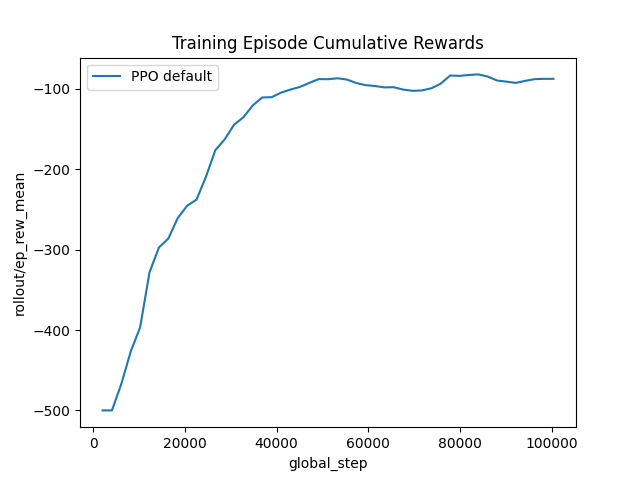
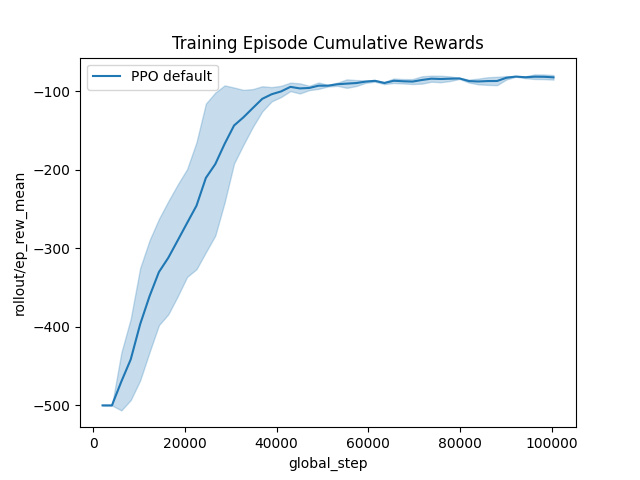
update tuto deepRL

diff --git a/docs/basics/DeepRLTutorial/TutorialDeepRL.md b/docs/basics/DeepRLTutorial/TutorialDeepRL.md
@@ -76,14 +76,14 @@ The ExperimentManager class is a compact way of experimenting with a deepRL agen
 default_xp = ExperimentManager(
     StableBaselinesAgent,  # The Agent class.
     (gym_make, dict(id="Acrobot-v1")),  # The Environment to solve.
-    fit_budget=1e6,  # The number of interactions
+    fit_budget=1e5,  # The number of interactions
     # between the agent and the
     # environment during training.
     init_kwargs=dict(algo_cls=PPO),  # Init value for StableBaselinesAgent
     eval_kwargs=dict(eval_horizon=500),  # The number of interactions
     # between the agent and the
     # environment during evaluations.
-    n_fit=1,  # The number of agents to train.
+    n_fit=3,  # The number of agents to train.
     # Usually, it is good to do more
     # than 1 because the training is
     # stochastic.
@@ -104,39 +104,18 @@ _ = plot_writer_data(
 ```
 
 ```none
-[INFO] 17:13: Running ExperimentManager fit() for PPO default with n_fit = 1 and max_workers = None.
-```
-
-</br>
-
-```none
 Training ...
-```
-
-</br>
-
-```none
-[INFO] 17:13: Running ExperimentManager fit() for PPO default with n_fit = 1 and max_workers = None.
-[INFO] 17:13: [PPO default[worker: 0]] | max_global_step = 6144 | time/iterations = 2 | rollout/ep_rew_mean = -500.0 | rollout/ep_len_mean = 500.0 | time/fps = 1692 | time/time_elapsed = 2 | time/total_timesteps = 4096 | train/learning_rate = 0.0003 | train/entropy_loss = -1.0929798234254122 | train/policy_gradient_loss = -0.006189992171130143 | train/value_loss = 141.715856385231 | train/approx_kl = 0.007915161550045013 | train/clip_fraction = 0.064501953125 | train/loss = 18.01680564880371 | train/explained_variance = -0.006626486778259277 | train/n_updates = 10 | train/clip_range = 0.2 |
-[INFO] 17:13: [PPO default[worker: 0]] | max_global_step = 10240 | time/iterations = 4 | rollout/ep_rew_mean = -426.7368421052632 | rollout/ep_len_mean = 427.1578947368421 | time/fps = 1500 | time/time_elapsed = 5 | time/total_timesteps = 8192 | train/learning_rate = 0.0003 | train/entropy_loss = -1.0738775245845318 | train/policy_gradient_loss = -0.007528258884849493 | train/value_loss = 97.8167538881302 | train/approx_kl = 0.007092837244272232 | train/clip_fraction = 0.06171875 | train/loss = 22.329425811767578 | train/explained_variance = 0.16747123003005981 | train/n_updates = 30 | train/clip_range = 0.2 |
-[INFO] 17:13: [PPO default[worker: 0]] | max_global_step = 14336 | time/iterations = 6 | rollout/ep_rew_mean = -328.2432432432432 | rollout/ep_len_mean = 328.9189189189189 | time/fps = 1422 | time/time_elapsed = 8 | time/total_timesteps = 12288 | train/learning_rate = 0.0003 | train/entropy_loss = -0.9952785328030587 | train/policy_gradient_loss = -0.004915896706006606 | train/value_loss = 76.84451106190681 | train/approx_kl = 0.009993761777877808 | train/clip_fraction = 0.063134765625 | train/loss = 16.79842185974121 | train/explained_variance = 0.18965238332748413 | train/n_updates = 50 | train/clip_range = 0.2 |
-[INFO] 17:14: [PPO default[worker: 0]] | max_global_step = 20480 | time/iterations = 9 | rollout/ep_rew_mean = -260.77142857142854 | rollout/ep_len_mean = 261.5857142857143 | time/fps = 1424 | time/time_elapsed = 12 | time/total_timesteps = 18432 | train/learning_rate = 0.0003 | train/entropy_loss = -0.9102774120867252 | train/policy_gradient_loss = -0.004213768222689396 | train/value_loss = 62.170489662885664 | train/approx_kl = 0.006206408608704805 | train/clip_fraction = 0.018017578125 | train/loss = 12.47692584991455 | train/explained_variance = 0.5796919465065002 | train/n_updates = 80 | train/clip_range = 0.2 |
-[INFO] 17:14: [PPO default[worker: 0]] | max_global_step = 26624 | time/iterations = 12 | rollout/ep_rew_mean = -209.51 | rollout/ep_len_mean = 210.45 | time/fps = 1466 | time/time_elapsed = 16 | time/total_timesteps = 24576 | train/learning_rate = 0.0003 | train/entropy_loss = -0.7815314799547195 | train/policy_gradient_loss = -0.007312664366327226 | train/value_loss = 43.975503134727475 | train/approx_kl = 0.008047394454479218 | train/clip_fraction = 0.068896484375 | train/loss = 15.753148078918457 | train/explained_variance = 0.8005904108285904 | train/n_updates = 110 | train/clip_range = 0.2 |
-[INFO] 17:14: [PPO default[worker: 0]] | max_global_step = 32768 | time/iterations = 15 | rollout/ep_rew_mean = -144.47 | rollout/ep_len_mean = 145.47 | time/fps = 1495 | time/time_elapsed = 20 | time/total_timesteps = 30720 | train/learning_rate = 0.0003 | train/entropy_loss = -0.6775180252268911 | train/policy_gradient_loss = -0.006114470241300296 | train/value_loss = 34.544698759913445 | train/approx_kl = 0.008602862246334553 | train/clip_fraction = 0.081396484375 | train/loss = 18.569143295288086 | train/explained_variance = 0.8845842033624649 | train/n_updates = 140 | train/clip_range = 0.2 |
-[INFO] 17:14: [PPO default[worker: 0]] | max_global_step = 38912 | time/iterations = 18 | rollout/ep_rew_mean = -110.58 | rollout/ep_len_mean = 111.58 | time/fps = 1515 | time/time_elapsed = 24 | time/total_timesteps = 36864 | train/learning_rate = 0.0003 | train/entropy_loss = -0.49321664227172735 | train/policy_gradient_loss = -0.00420049975218717 | train/value_loss = 31.819509637355804 | train/approx_kl = 0.004260750487446785 | train/clip_fraction = 0.04560546875 | train/loss = 12.861420631408691 | train/explained_variance = 0.8872770071029663 | train/n_updates = 170 | train/clip_range = 0.2 |
-[INFO] 17:14: [PPO default[worker: 0]] | max_global_step = 45056 | time/iterations = 21 | rollout/ep_rew_mean = -100.74 | rollout/ep_len_mean = 101.74 | time/fps = 1532 | time/time_elapsed = 28 | time/total_timesteps = 43008 | train/learning_rate = 0.0003 | train/entropy_loss = -0.4429807928390801 | train/policy_gradient_loss = -0.0051260963329696095 | train/value_loss = 22.604873842000963 | train/approx_kl = 0.004053293261677027 | train/clip_fraction = 0.046728515625 | train/loss = 9.488809585571289 | train/explained_variance = 0.8918172493577003 | train/n_updates = 200 | train/clip_range = 0.2 |
-[INFO] 17:14: [PPO default[worker: 0]] | max_global_step = 51200 | time/iterations = 24 | rollout/ep_rew_mean = -87.7 | rollout/ep_len_mean = 88.7 | time/fps = 1545 | time/time_elapsed = 31 | time/total_timesteps = 49152 | train/learning_rate = 0.0003 | train/entropy_loss = -0.3213156964164227 | train/policy_gradient_loss = -0.002665774476190563 | train/value_loss = 20.599636045098304 | train/approx_kl = 0.0024083973839879036 | train/clip_fraction = 0.017236328125 | train/loss = 12.99824333190918 | train/explained_variance = 0.8812666162848473 | train/n_updates = 230 | train/clip_range = 0.2 |
-[INFO] 17:14: [PPO default[worker: 0]] | max_global_step = 57344 | time/iterations = 27 | rollout/ep_rew_mean = -88.24 | rollout/ep_len_mean = 89.24 | time/fps = 1555 | time/time_elapsed = 35 | time/total_timesteps = 55296 | train/learning_rate = 0.0003 | train/entropy_loss = -0.31546892756596207 | train/policy_gradient_loss = -0.009636750411300455 | train/value_loss = 17.506983835995197 | train/approx_kl = 0.008459953591227531 | train/clip_fraction = 0.054296875 | train/loss = 7.022050380706787 | train/explained_variance = 0.8970916345715523 | train/n_updates = 260 | train/clip_range = 0.2 |
-[INFO] 17:14: [PPO default[worker: 0]] | max_global_step = 63488 | time/iterations = 30 | rollout/ep_rew_mean = -96.3 | rollout/ep_len_mean = 97.29 | time/fps = 1563 | time/time_elapsed = 39 | time/total_timesteps = 61440 | train/learning_rate = 0.0003 | train/entropy_loss = -0.28947532204911114 | train/policy_gradient_loss = -0.001286450280167628 | train/value_loss = 35.65989404916763 | train/approx_kl = 0.0011013790499418974 | train/clip_fraction = 0.009375 | train/loss = 18.42564582824707 | train/explained_variance = 0.8290886282920837 | train/n_updates = 290 | train/clip_range = 0.2 |
-[INFO] 17:14: [PPO default[worker: 0]] | max_global_step = 69632 | time/iterations = 33 | rollout/ep_rew_mean = -100.76 | rollout/ep_len_mean = 101.74 | time/fps = 1571 | time/time_elapsed = 43 | time/total_timesteps = 67584 | train/learning_rate = 0.0003 | train/entropy_loss = -0.22212261543609202 | train/policy_gradient_loss = -0.0013434989712550304 | train/value_loss = 19.162969033420087 | train/approx_kl = 0.0013764428440481424 | train/clip_fraction = 0.0099609375 | train/loss = 7.710111618041992 | train/explained_variance = 0.8366725593805313 | train/n_updates = 320 | train/clip_range = 0.2 |
-[INFO] 17:14: [PPO default[worker: 0]] | max_global_step = 75776 | time/iterations = 36 | rollout/ep_rew_mean = -99.14 | rollout/ep_len_mean = 100.11 | time/fps = 1574 | time/time_elapsed = 46 | time/total_timesteps = 73728 | train/learning_rate = 0.0003 | train/entropy_loss = -0.22284777173772455 | train/policy_gradient_loss = -0.003595446604595054 | train/value_loss = 47.21005566716194 | train/approx_kl = 0.0020544053986668587 | train/clip_fraction = 0.0236328125 | train/loss = 19.401063919067383 | train/explained_variance = 0.7258298695087433 | train/n_updates = 350 | train/clip_range = 0.2 |
-[INFO] 17:14: [PPO default[worker: 0]] | max_global_step = 81920 | time/iterations = 39 | rollout/ep_rew_mean = -83.72 | rollout/ep_len_mean = 84.72 | time/fps = 1579 | time/time_elapsed = 50 | time/total_timesteps = 79872 | train/learning_rate = 0.0003 | train/entropy_loss = -0.1912181852152571 | train/policy_gradient_loss = -0.0029860971349989994 | train/value_loss = 20.7523592710495 | train/approx_kl = 0.002668976318091154 | train/clip_fraction = 0.018408203125 | train/loss = 10.850214004516602 | train/explained_variance = 0.9057487025856972 | train/n_updates = 380 | train/clip_range = 0.2 |
-[INFO] 17:14: [PPO default[worker: 0]] | max_global_step = 88064 | time/iterations = 42 | rollout/ep_rew_mean = -84.51 | rollout/ep_len_mean = 85.51 | time/fps = 1584 | time/time_elapsed = 54 | time/total_timesteps = 86016 | train/learning_rate = 0.0003 | train/entropy_loss = -0.16024661988485606 | train/policy_gradient_loss = -0.0008719900164578575 | train/value_loss = 17.229137426614763 | train/approx_kl = 0.0011531587224453688 | train/clip_fraction = 0.006982421875 | train/loss = 9.205939292907715 | train/explained_variance = 0.9104878678917885 | train/n_updates = 410 | train/clip_range = 0.2 |
-[INFO] 17:14: [PPO default[worker: 0]] | max_global_step = 94208 | time/iterations = 45 | rollout/ep_rew_mean = -92.42 | rollout/ep_len_mean = 93.42 | time/fps = 1589 | time/time_elapsed = 57 | time/total_timesteps = 92160 | train/learning_rate = 0.0003 | train/entropy_loss = -0.12848295361036435 | train/policy_gradient_loss = -0.002640917531971354 | train/value_loss = 33.56368041336536 | train/approx_kl = 0.001574347261339426 | train/clip_fraction = 0.01591796875 | train/loss = 22.291500091552734 | train/explained_variance = 0.8023407310247421 | train/n_updates = 440 | train/clip_range = 0.2 |
-[INFO] 17:14: [PPO default[worker: 0]] | max_global_step = 100352 | time/iterations = 48 | rollout/ep_rew_mean = -87.38 | rollout/ep_len_mean = 88.37 | time/fps = 1593 | time/time_elapsed = 61 | time/total_timesteps = 98304 | train/learning_rate = 0.0003 | train/entropy_loss = -0.23304079584777354 | train/policy_gradient_loss = -0.0029938832129118966 | train/value_loss = 15.94501298815012 | train/approx_kl = 0.0073814853094518185 | train/clip_fraction = 0.043359375 | train/loss = 5.659388542175293 | train/explained_variance = 0.7538405954837799 | train/n_updates = 470 | train/clip_range = 0.2 |
-[INFO] 17:14: ... trained!
-[INFO] 17:14: Saved ExperimentManager(PPO default) using pickle.
-[INFO] 17:14: The ExperimentManager was saved in : 'rlberry_data/temp/manager_data/PPO default_2024-04-16_17-13-48_3ce30c7c/manager_obj.pickle'
+[INFO] 15:57: Running ExperimentManager fit() for PPO default with n_fit = 3 and max_workers = None.
+[INFO] 15:57:                                   agent_name  worker  time/iterations  max_global_step
+                                               PPO default    0           1               2048
+[INFO] 15:57: [PPO default[worker: 2]] | max_global_step = 4096 | time/iterations = 1 | rollout/ep_rew_mean = -500.0 | rollout/ep_len_mean = 500.0 | time/fps = 727 | time/time_elapsed = 2 | time/total_timesteps = 2048 | train/learning_rate = 0.0003 |
+[INFO] 15:57: [PPO default[worker: 0]] | max_global_step = 4096 | time/iterations = 1 | rollout/ep_rew_mean = -500.0 | rollout/ep_len_mean = 500.0 | time/fps = 705 | time/time_elapsed = 2 | time/total_timesteps = 2048 | train/learning_rate = 0.0003 |
+[INFO] 15:57: [PPO default[worker: 1]] | max_global_step = 4096 | time/iterations = 1 | rollout/ep_rew_mean = -500.0 | rollout/ep_len_mean = 500.0 | time/fps = 719 | time/time_elapsed = 2 | time/total_timesteps = 2048 | train/learning_rate = 0.0003 |
+...
+...
+...
+[INFO] 16:01: [PPO default[worker: 1]] | max_global_step = 100352 | time/iterations = 48 | rollout/ep_rew_mean = -79.26 | rollout/ep_len_mean = 80.26 | time/fps = 398 | time/time_elapsed = 246 | time/total_timesteps = 98304 | train/learning_rate = 0.0003 | train/entropy_loss = -0.1558212914969772 | train/policy_gradient_loss = -0.001575780064376886 | train/value_loss = 9.463472159206868 | train/approx_kl = 0.0019107917323708534 | train/clip_fraction = 0.018701171875 | train/loss = 10.015292167663574 | train/explained_variance = 0.9502505771815777 | train/n_updates = 470 | train/clip_range = 0.2 |
+[INFO] 16:01: [PPO default[worker: 2]] | max_global_step = 100352 | time/iterations = 48 | rollout/ep_rew_mean = -81.55 | rollout/ep_len_mean = 82.55 | time/fps = 398 | time/time_elapsed = 246 | time/total_timesteps = 98304 | train/learning_rate = 0.0003 | train/entropy_loss = -0.1251153098186478 | train/policy_gradient_loss = -0.003398912865668535 | train/value_loss = 8.9318665035069 | train/approx_kl = 0.0023679514415562153 | train/clip_fraction = 0.022314453125 | train/loss = 4.039802551269531 | train/explained_variance = 0.9598834589123726 | train/n_updates = 470 | train/clip_range = 0.2 |
 ```
 
 </br>
@@ -156,7 +135,7 @@ _ = evaluate_agents(
 
 ```none
 Evaluating ...
-[INFO] 17:15: Evaluating PPO default...
+[INFO] 16:03: Evaluating PPO default...
 [INFO] Evaluation:..................................................  Evaluation finished
 ```
 
@@ -184,17 +163,14 @@ tuned_xp = ExperimentManager(
         gae_lambda=0.94,  # Factor for trade-off of bias vs variance for Generalized Advantage Estimator
         n_epochs=4,  # Number of epoch when optimizing the surrogate loss
         n_steps=256,  # The number of steps to run for the environment per update
-        batch_size=256,  # Number of interactions used to
-        # estimate the policy gradient
-        # for each policy update.
     ),
-    fit_budget=1e6,  # The number of interactions
+    fit_budget=1e5,  # The number of interactions
     # between the agent and the
     # environment during training.
     eval_kwargs=dict(eval_horizon=500),  # The number of interactions
     # between the agent and the
     # environment during evaluations.
-    n_fit=1,  # The number of agents to train.
+    n_fit=3,  # The number of agents to train.
     # Usually, it is good to do more
     # than 1 because the training is
     # stochastic.
@@ -216,7 +192,7 @@ _ = plot_writer_data(
 ```
 
 ```none
-[INFO] 17:15: Running ExperimentManager fit() for PPO tuned with n_fit = 1 and max_workers = None.
+[INFO] 16:06: Running ExperimentManager fit() for PPO tuned with n_fit = 3 and max_workers = None.
 ```
 
 </br>
@@ -228,25 +204,16 @@ Training ...
 </br>
 
 ```none
-[INFO] 17:15: [PPO tuned[worker: 0]] | max_global_step = 6400 | time/iterations = 24 | time/fps = 2105 | time/time_elapsed = 2 | time/total_timesteps = 6144 | train/learning_rate = 0.0003 | train/entropy_loss = -1.0572556108236313 | train/policy_gradient_loss = -0.00047643095604144037 | train/value_loss = 128.2477970123291 | train/approx_kl = 5.645095370709896e-05 | train/clip_fraction = 0.0 | train/loss = 55.283321380615234 | train/explained_variance = 0.20806163549423218 | train/n_updates = 92 | train/clip_range = 0.2 | rollout/ep_rew_mean = -333.1111111111111 | rollout/ep_len_mean = 333.8333333333333 |
-[INFO] 17:15: [PPO tuned[worker: 0]] | max_global_step = 12544 | time/iterations = 48 | time/fps = 2068 | time/time_elapsed = 5 | time/total_timesteps = 12288 | train/learning_rate = 0.0003 | train/entropy_loss = -0.7988822720944881 | train/policy_gradient_loss = -0.001968120865058154 | train/value_loss = 89.75015926361084 | train/approx_kl = 0.0006263391114771366 | train/clip_fraction = 0.0 | train/loss = 43.21318054199219 | train/explained_variance = 0.33033323287963867 | train/n_updates = 188 | train/clip_range = 0.2 | rollout/ep_rew_mean = -218.23214285714286 | rollout/ep_len_mean = 219.14285714285714 |
-[INFO] 17:15: [PPO tuned[worker: 0]] | max_global_step = 18432 | time/iterations = 71 | time/fps = 2007 | time/time_elapsed = 9 | time/total_timesteps = 18176 | train/learning_rate = 0.0003 | train/entropy_loss = -0.6998001970350742 | train/policy_gradient_loss = -0.0007780164014548063 | train/value_loss = 91.61138582229614 | train/approx_kl = 0.0002921083942055702 | train/clip_fraction = 0.0 | train/loss = 49.43030548095703 | train/explained_variance = 0.199457049369812 | train/n_updates = 280 | train/clip_range = 0.2 | rollout/ep_rew_mean = -175.49 | rollout/ep_len_mean = 176.45 |
-[INFO] 17:15: [PPO tuned[worker: 0]] | max_global_step = 24320 | time/iterations = 94 | time/fps = 1988 | time/time_elapsed = 12 | time/total_timesteps = 24064 | train/learning_rate = 0.0003 | train/entropy_loss = -0.6855811513960361 | train/policy_gradient_loss = -0.00044799927854910493 | train/value_loss = 84.82663869857788 | train/approx_kl = 0.0006827195174992085 | train/clip_fraction = 0.0 | train/loss = 40.594425201416016 | train/explained_variance = 0.40675830841064453 | train/n_updates = 372 | train/clip_range = 0.2 | rollout/ep_rew_mean = -120.54 | rollout/ep_len_mean = 121.54 |
-[INFO] 17:15: [PPO tuned[worker: 0]] | max_global_step = 30720 | time/iterations = 119 | time/fps = 2000 | time/time_elapsed = 15 | time/total_timesteps = 30464 | train/learning_rate = 0.0003 | train/entropy_loss = -0.4461955167353153 | train/policy_gradient_loss = -0.0019316497491672635 | train/value_loss = 39.96290922164917 | train/approx_kl = 0.00022931606508791447 | train/clip_fraction = 0.0 | train/loss = 18.5803279876709 | train/explained_variance = 0.7989254891872406 | train/n_updates = 472 | train/clip_range = 0.2 | rollout/ep_rew_mean = -100.35 | rollout/ep_len_mean = 101.35 |
-[INFO] 17:15: [PPO tuned[worker: 0]] | max_global_step = 36864 | time/iterations = 143 | time/fps = 1995 | time/time_elapsed = 18 | time/total_timesteps = 36608 | train/learning_rate = 0.0003 | train/entropy_loss = -0.3954697884619236 | train/policy_gradient_loss = -0.0026701100287027657 | train/value_loss = 31.354408621788025 | train/approx_kl = 0.0005203159525990486 | train/clip_fraction = 0.001953125 | train/loss = 13.910658836364746 | train/explained_variance = 0.8476790189743042 | train/n_updates = 568 | train/clip_range = 0.2 | rollout/ep_rew_mean = -94.41 | rollout/ep_len_mean = 95.41 |
-[INFO] 17:15: [PPO tuned[worker: 0]] | max_global_step = 43264 | time/iterations = 168 | time/fps = 2005 | time/time_elapsed = 21 | time/total_timesteps = 43008 | train/learning_rate = 0.0003 | train/entropy_loss = -0.45925334468483925 | train/policy_gradient_loss = -0.00039937475230544806 | train/value_loss = 33.857659459114075 | train/approx_kl = 0.0001619535032659769 | train/clip_fraction = 0.0 | train/loss = 16.692773818969727 | train/explained_variance = 0.8541684299707413 | train/n_updates = 668 | train/clip_range = 0.2 | rollout/ep_rew_mean = -97.28 | rollout/ep_len_mean = 98.28 |
-[INFO] 17:16: [PPO tuned[worker: 0]] | max_global_step = 49408 | time/iterations = 192 | time/fps = 2003 | time/time_elapsed = 24 | time/total_timesteps = 49152 | train/learning_rate = 0.0003 | train/entropy_loss = -0.34735729917883873 | train/policy_gradient_loss = -0.0035068761208094656 | train/value_loss = 24.374780774116516 | train/approx_kl = 0.0010997226927429438 | train/clip_fraction = 0.00390625 | train/loss = 7.9426116943359375 | train/explained_variance = 0.894627682864666 | train/n_updates = 764 | train/clip_range = 0.2 | rollout/ep_rew_mean = -86.75 | rollout/ep_len_mean = 87.75 |
-[INFO] 17:16: [PPO tuned[worker: 0]] | max_global_step = 55552 | time/iterations = 216 | time/fps = 2004 | time/time_elapsed = 27 | time/total_timesteps = 55296 | train/learning_rate = 0.0003 | train/entropy_loss = -0.25039983075112104 | train/policy_gradient_loss = -0.002326533489394933 | train/value_loss = 16.638584196567535 | train/approx_kl = 0.0007837177254259586 | train/clip_fraction = 0.0029296875 | train/loss = 8.219216346740723 | train/explained_variance = 0.9247641786932945 | train/n_updates = 860 | train/clip_range = 0.2 | rollout/ep_rew_mean = -83.17 | rollout/ep_len_mean = 84.17 |
-[INFO] 17:16: [PPO tuned[worker: 0]] | max_global_step = 61696 | time/iterations = 240 | time/fps = 2004 | time/time_elapsed = 30 | time/total_timesteps = 61440 | train/learning_rate = 0.0003 | train/entropy_loss = -0.20490748342126608 | train/policy_gradient_loss = -0.002675430674571544 | train/value_loss = 11.756703406572342 | train/approx_kl = 0.0009058164432644844 | train/clip_fraction = 0.00390625 | train/loss = 4.831850528717041 | train/explained_variance = 0.9516513273119926 | train/n_updates = 956 | train/clip_range = 0.2 | rollout/ep_rew_mean = -85.84 | rollout/ep_len_mean = 86.84 |
-[INFO] 17:16: [PPO tuned[worker: 0]] | max_global_step = 67840 | time/iterations = 264 | time/fps = 2001 | time/time_elapsed = 33 | time/total_timesteps = 67584 | train/learning_rate = 0.0003 | train/entropy_loss = -0.1371078807860613 | train/policy_gradient_loss = -0.0002851566532626748 | train/value_loss = 39.02770984172821 | train/approx_kl = 0.0003623703960329294 | train/clip_fraction = 0.001953125 | train/loss = 11.338791847229004 | train/explained_variance = 0.8494161516427994 | train/n_updates = 1052 | train/clip_range = 0.2 | rollout/ep_rew_mean = -85.28 | rollout/ep_len_mean = 86.28 |
-[INFO] 17:16: [PPO tuned[worker: 0]] | max_global_step = 73984 | time/iterations = 288 | time/fps = 1999 | time/time_elapsed = 36 | time/total_timesteps = 73728 | train/learning_rate = 0.0003 | train/entropy_loss = -0.09845160157419741 | train/policy_gradient_loss = 1.6727717593312263e-06 | train/value_loss = 62.19053077697754 | train/approx_kl = 1.8619466572999954e-06 | train/clip_fraction = 0.0 | train/loss = 22.528833389282227 | train/explained_variance = 0.8270737081766129 | train/n_updates = 1148 | train/clip_range = 0.2 | rollout/ep_rew_mean = -88.41 | rollout/ep_len_mean = 89.41 |
-[INFO] 17:16: [PPO tuned[worker: 0]] | max_global_step = 80384 | time/iterations = 313 | time/fps = 2006 | time/time_elapsed = 39 | time/total_timesteps = 80128 | train/learning_rate = 0.0003 | train/entropy_loss = -0.18064112542197108 | train/policy_gradient_loss = -0.00035066844429820776 | train/value_loss = 11.814534723758698 | train/approx_kl = 0.00025136792100965977 | train/clip_fraction = 0.0009765625 | train/loss = 4.615758419036865 | train/explained_variance = 0.947364155203104 | train/n_updates = 1248 | train/clip_range = 0.2 | rollout/ep_rew_mean = -85.55 | rollout/ep_len_mean = 86.55 |
-[INFO] 17:16: [PPO tuned[worker: 0]] | max_global_step = 86784 | time/iterations = 338 | time/fps = 2012 | time/time_elapsed = 42 | time/total_timesteps = 86528 | train/learning_rate = 0.0003 | train/entropy_loss = -0.16239579999819398 | train/policy_gradient_loss = -0.0017573575023561716 | train/value_loss = 11.899139255285263 | train/approx_kl = 0.0012513825204223394 | train/clip_fraction = 0.0048828125 | train/loss = 6.563343524932861 | train/explained_variance = 0.9511667862534523 | train/n_updates = 1348 | train/clip_range = 0.2 | rollout/ep_rew_mean = -85.92 | rollout/ep_len_mean = 86.92 |
-[INFO] 17:16: [PPO tuned[worker: 0]] | max_global_step = 93184 | time/iterations = 363 | time/fps = 2018 | time/time_elapsed = 46 | time/total_timesteps = 92928 | train/learning_rate = 0.0003 | train/entropy_loss = -0.13055721437558532 | train/policy_gradient_loss = -0.0035327630466781557 | train/value_loss = 11.075345873832703 | train/approx_kl = 0.0011467819567769766 | train/clip_fraction = 0.0048828125 | train/loss = 6.420516490936279 | train/explained_variance = 0.9501275159418583 | train/n_updates = 1448 | train/clip_range = 0.2 | rollout/ep_rew_mean = -86.08 | rollout/ep_len_mean = 87.08 |
-[INFO] 17:16: [PPO tuned[worker: 0]] | max_global_step = 99584 | time/iterations = 388 | time/fps = 2023 | time/time_elapsed = 49 | time/total_timesteps = 99328 | train/learning_rate = 0.0003 | train/entropy_loss = -0.10564398556016386 | train/policy_gradient_loss = -0.0005617931601591408 | train/value_loss = 20.7921279668808 | train/approx_kl = 0.00010642432607710361 | train/clip_fraction = 0.0 | train/loss = 8.198343276977539 | train/explained_variance = 0.9145599380135536 | train/n_updates = 1548 | train/clip_range = 0.2 | rollout/ep_rew_mean = -90.74 | rollout/ep_len_mean = 91.73 |
-[INFO] 17:16: ... trained!
-[INFO] 17:16: Saved ExperimentManager(PPO tuned) using pickle.
-[INFO] 17:16: The ExperimentManager was saved in : 'rlberry_data/temp/manager_data/PPO tuned_2024-04-16_17-15-35_f1c48474/manager_obj.pickle'
+[INFO] 16:07: [PPO tuned[worker: 1]] | max_global_step = 2048 | time/iterations = 7 | time/fps = 609 | time/time_elapsed = 2 | time/total_timesteps = 1792 | train/learning_rate = 0.0003 | train/entropy_loss = -1.0974667742848396 | train/policy_gradient_loss = -0.0009369864128530025 | train/value_loss = 162.15267086029053 | train/approx_kl = 0.00016404897905886173 | train/clip_fraction = 0.0 | train/loss = 70.76416778564453 | train/explained_variance = 0.038179218769073486 | train/n_updates = 24 | train/clip_range = 0.2 | rollout/ep_rew_mean = -500.0 | rollout/ep_len_mean = 500.0 |
+[INFO] 16:07: [PPO tuned[worker: 0]] | max_global_step = 2048 | time/iterations = 7 | time/fps = 608 | time/time_elapsed = 2 | time/total_timesteps = 1792 | train/learning_rate = 0.0003 | train/entropy_loss = -1.097521685063839 | train/policy_gradient_loss = -0.0021453166846185923 | train/value_loss = 159.90410614013672 | train/approx_kl = 0.00030635856091976166 | train/clip_fraction = 0.0 | train/loss = 72.51579284667969 | train/explained_variance = 0.00991511344909668 | train/n_updates = 24 | train/clip_range = 0.2 | rollout/ep_rew_mean = -500.0 | rollout/ep_len_mean = 500.0 |
+[INFO] 16:07: [PPO tuned[worker: 2]] | max_global_step = 2048 | time/iterations = 7 | time/fps = 604 | time/time_elapsed = 2 | time/total_timesteps = 1792 | train/learning_rate = 0.0003 | train/entropy_loss = -1.0938222110271454 | train/policy_gradient_loss = -0.002581374952569604 | train/value_loss = 167.01866149902344 | train/approx_kl = 0.0009766086004674435 | train/clip_fraction = 0.0 | train/loss = 77.16150665283203 | train/explained_variance = -0.26804113388061523 | train/n_updates = 24 | train/clip_range = 0.2 | rollout/ep_rew_mean = -500.0 | rollout/ep_len_mean = 500.0 |
+[INFO] 16:07: [PPO tuned[worker: 1]] | max_global_step = 3840 | time/iterations = 14 | time/fps = 598 | time/time_elapsed = 5 | time/total_timesteps = 3584 | train/learning_rate = 0.0003 | train/entropy_loss = -1.0899569168686867 | train/policy_gradient_loss = -0.002536407206207514 | train/value_loss = 165.09891891479492 | train/approx_kl = 0.0010566194541752338 | train/clip_fraction = 0.0 | train/loss = 79.24039459228516 | train/explained_variance = -0.2665156126022339 | train/n_updates = 52 | train/clip_range = 0.2 | rollout/ep_rew_mean = -493.7142857142857 | rollout/ep_len_mean = 493.85714285714283 |
+...
+...
+...
+[INFO] 16:10: ... trained!
+[INFO] 16:10: Saved ExperimentManager(PPO tuned) using pickle.
+[INFO] 16:10: The ExperimentManager was saved in : 'rlberry_data/temp/manager_data/PPO tuned_2024-04-17_16-06-57_5f0b4f99/manager_obj.pickle'
 ```
 
 </br>
@@ -257,6 +224,8 @@ Training ...
 ```
 
 <span>&#9728;</span> : For more information on plots and visualization, you can check [here (in construction)](visualization_page)
+Here, we can see that modifying the hyperparameters has accelerated learning...
+
 
 ```python
 print("Evaluating ...")
@@ -274,9 +243,9 @@ Evaluating ...
 </br>
 
 ```none
-[INFO] 17:16: Evaluating PPO default...
+[INFO] 16:11: Evaluating PPO default...
 [INFO] Evaluation:..................................................  Evaluation finished
-[INFO] 17:16: Evaluating PPO tuned...
+[INFO] 16:11: Evaluating PPO tuned...
 [INFO] Evaluation:..................................................  Evaluation finished
 ```
 
